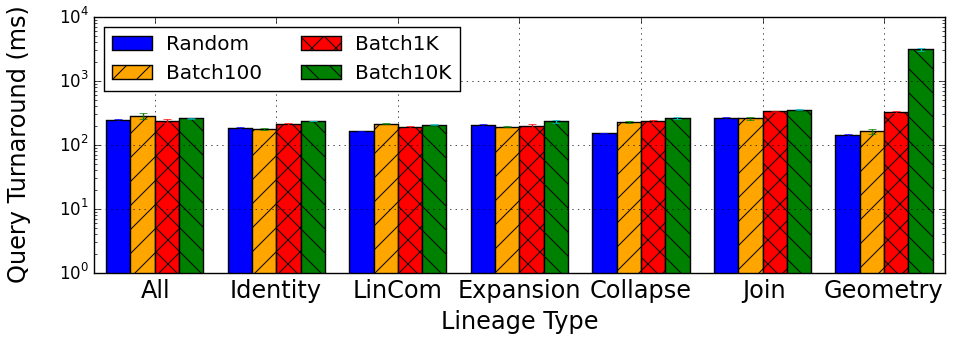
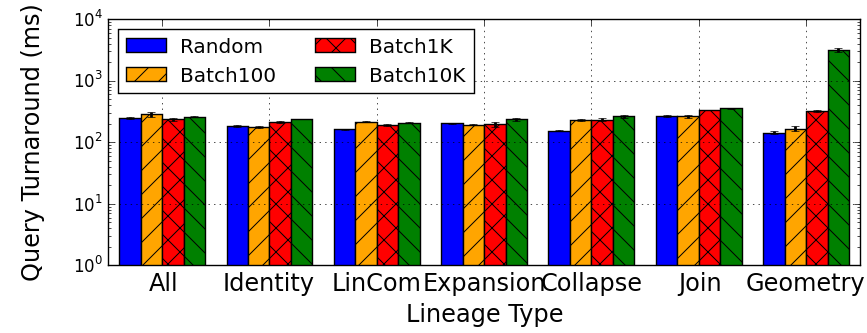
reformatting the new figure

diff --git a/pictures/TypeQuery-Time.py b/pictures/TypeQuery-Time.py
@@ -22,10 +22,10 @@ width = 0.2       # the width of the bars
 ax = plt.subplot()
 ax.set_ylim([1, 10000])
 
-rects1 = ax.bar(ind, Random, width, color='blue', yerr=RandomSDV)
-rects2 = ax.bar(ind+width, Batch100, width, color='orange', hatch="/", yerr=Batch100SDV)
-rects3 = ax.bar(ind+2*width, Batch1K, width, color='red', hatch="x", yerr=Batch1KSDV)
-rects4 = ax.bar(ind+3*width, Batch10K, width, color='green', hatch="\\", yerr=Batch10KSDV)
+rects1 = ax.bar(ind, Random, width, color='blue', yerr=RandomSDV, ecolor='black', error_kw=dict(elinewidth=2))
+rects2 = ax.bar(ind+width, Batch100, width, color='orange', hatch="/", yerr=Batch100SDV, ecolor='black', error_kw=dict(elinewidth=2))
+rects3 = ax.bar(ind+2*width, Batch1K, width, color='red', hatch="x", yerr=Batch1KSDV, ecolor='black', error_kw=dict(elinewidth=2))
+rects4 = ax.bar(ind+3*width, Batch10K, width, color='green', hatch="\\", yerr=Batch10KSDV,ecolor='black', error_kw=dict(elinewidth=2))
 ax.grid(True)
 
 #ax.set_yticklabels((500, 20000, 40000, 60000, 80000), size='large')
